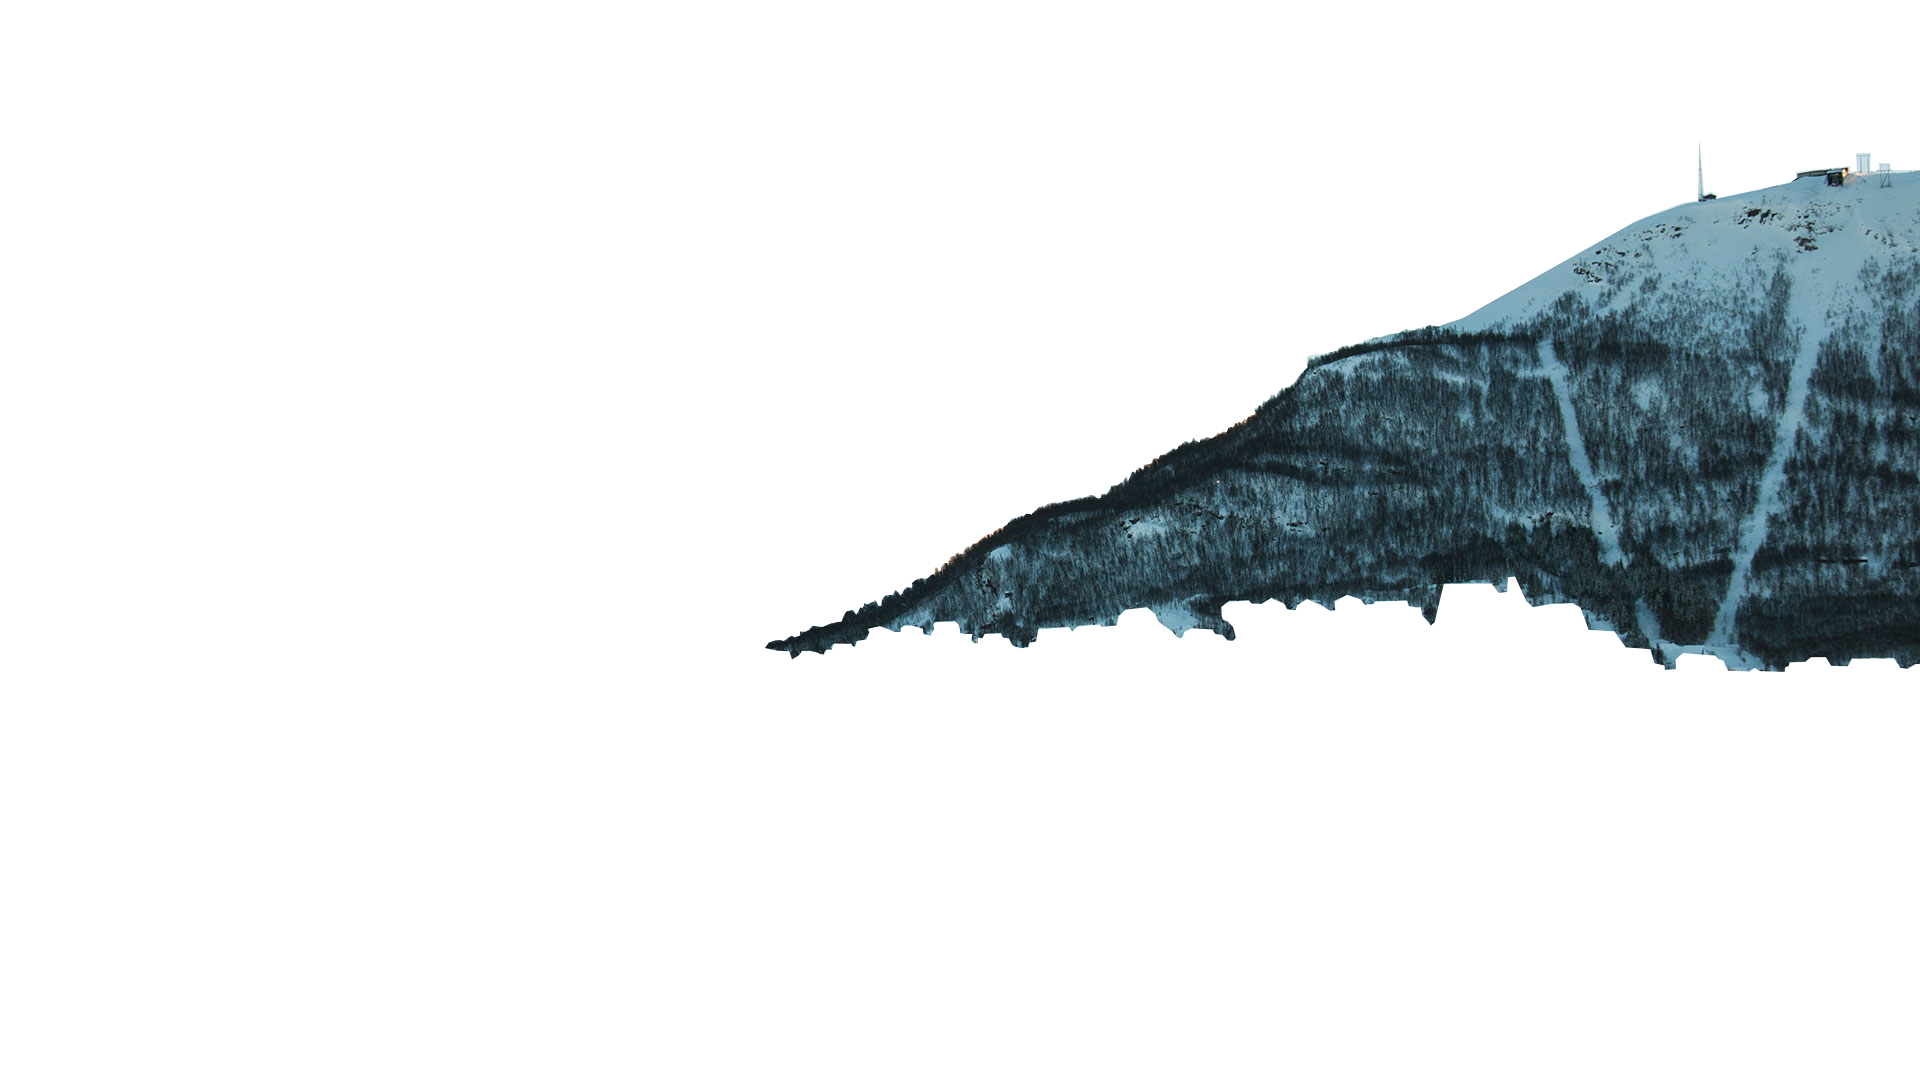
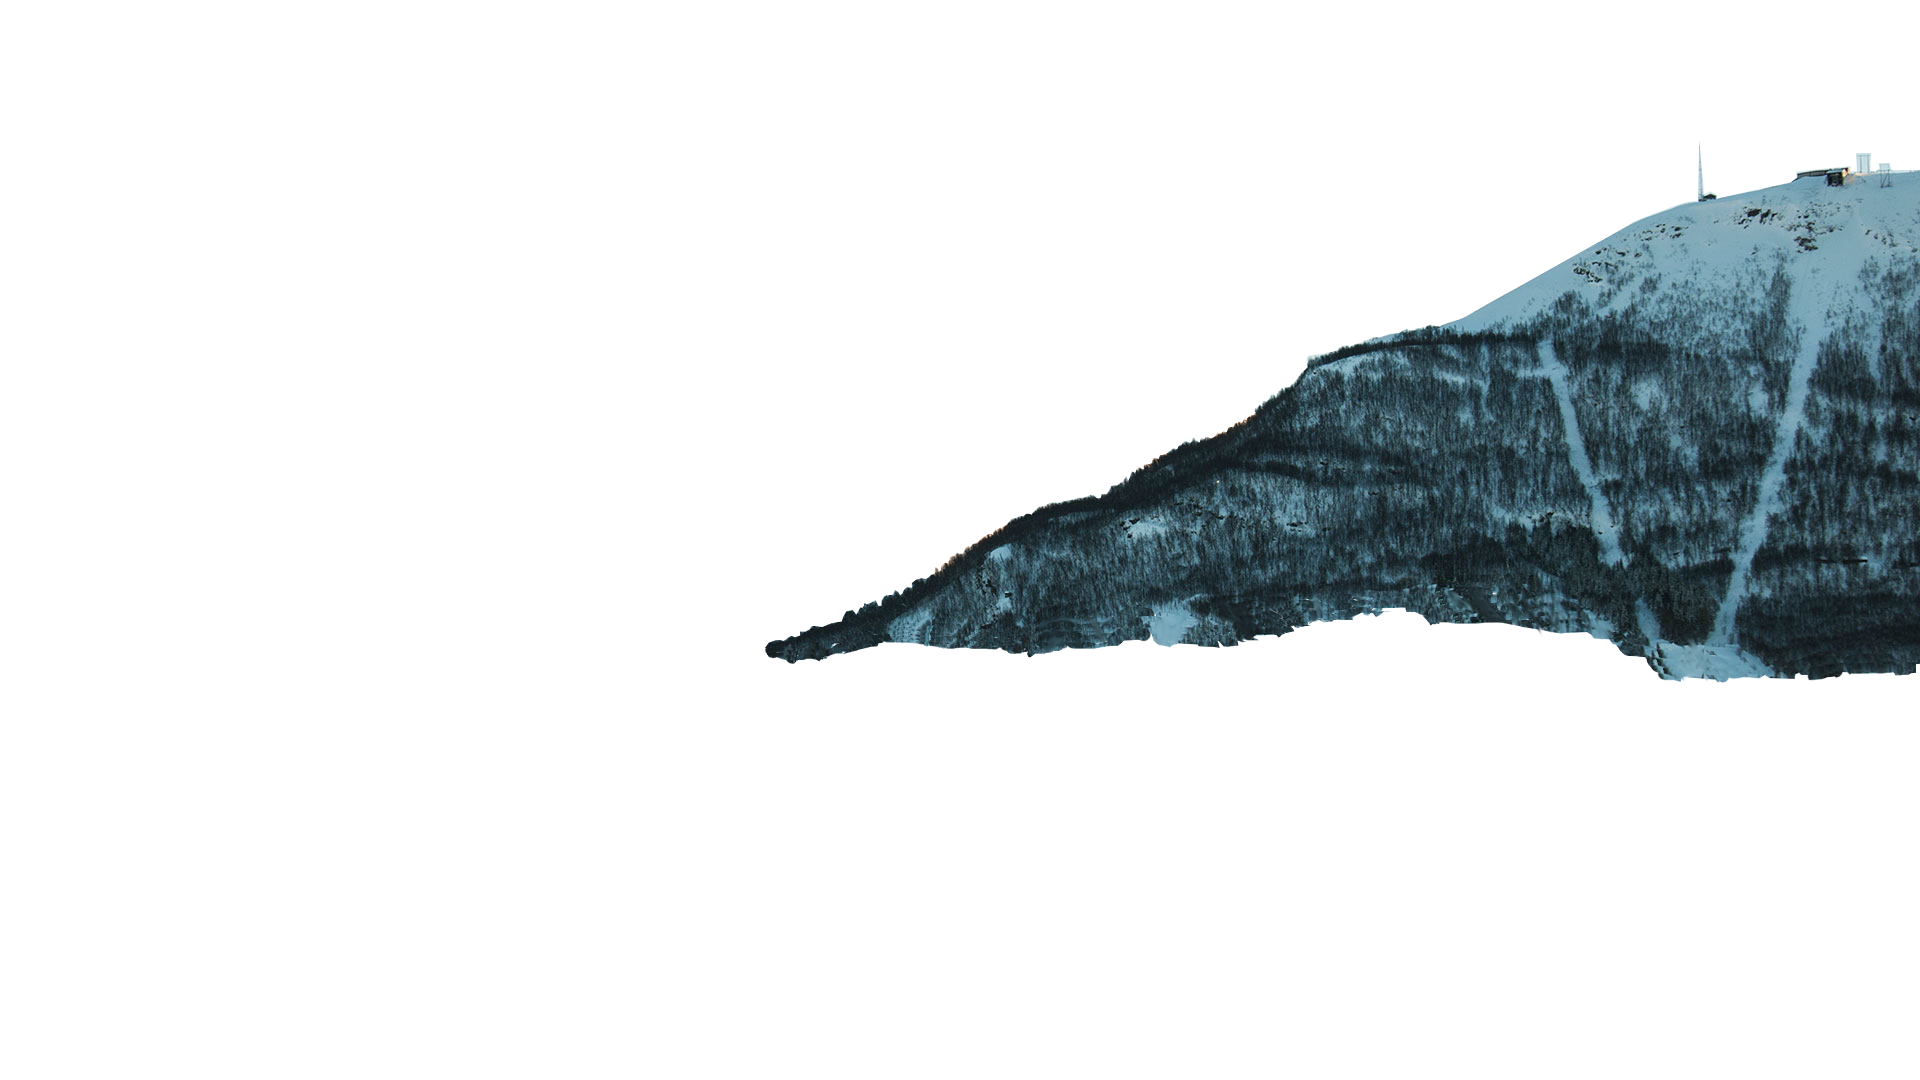
Gap fill for parallax effect

Changed region(s): [[0.4062, 0.5194, 1.0, 0.6417]]

diff --git a/Scripts/canvas.js b/Scripts/canvas.js
@@ -160,8 +160,8 @@ var CloudLayer = {
 
 var CityLayer = {
   initialize: function(canvasLayer) {
-    this.city = canvasLayer.loadImage("./Images/City.png");
-    this.nightCity = canvasLayer.loadImageFiltered("./Images/City.png", "sepia(100%) hue-rotate(180deg) brightness(75%) saturate(300%)");
+    this.city = canvasLayer.loadImage("./Images/CityWithRoadCutout.png");
+    this.nightCity = canvasLayer.loadImageFiltered("./Images/CityWithRoadCutout.png", "sepia(100%) hue-rotate(180deg) brightness(75%) saturate(300%)");
     this.tromsdalstin = canvasLayer.loadImage("./Images/Tromsdalstin.png");
     this.floya = canvasLayer.loadImage("./Images/Floya.png");
     this.nordFjellet = canvasLayer.loadImage("./Images/NordFjellet.png");
@@ -172,12 +172,13 @@ var CityLayer = {
   paint: function(ctx, width, height) {
     let h = width * this.city.ratio;
     //  ctx.filter = ;
-    ctx.drawImage(this.tromsdalstin, 0, height - h, width, h);
-    ctx.drawImage(this.nordFjellet, 0, height - h, width, h);
-    ctx.drawImage(this.floya, 0, height - h, width, h);
-    ctx.drawImage(this.city, 0, height - h, width, h);
+    const t = Math.sin(animTicks/150);
+    ctx.drawImage(this.tromsdalstin, t * 5, height - h, width, height);
+    ctx.drawImage(this.nordFjellet, t * 10, height - h, width, height);
+    ctx.drawImage(this.floya, t * 10, height - h, width, height);
+    ctx.drawImage(this.city, t * 15, height - h, width, height);
     ctx.globalAlpha = this.nightAlpha;
-    ctx.drawImage(this.nightCity, 0, height - h, width, h);
+    // ctx.drawImage(this.nightCity, 0, height - h, width, h);
     ctx.globalAlpha = 1;
   },  
   setDayCycle: function(value) {
